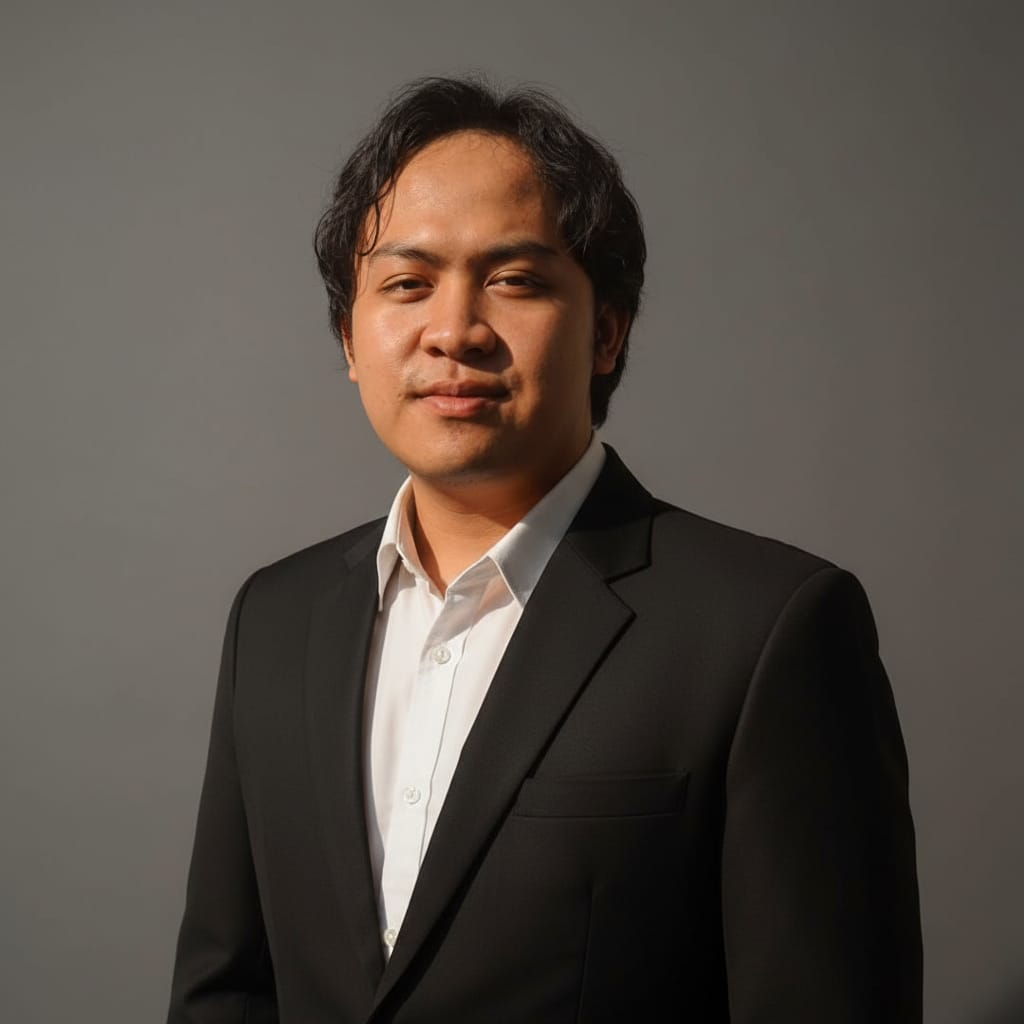
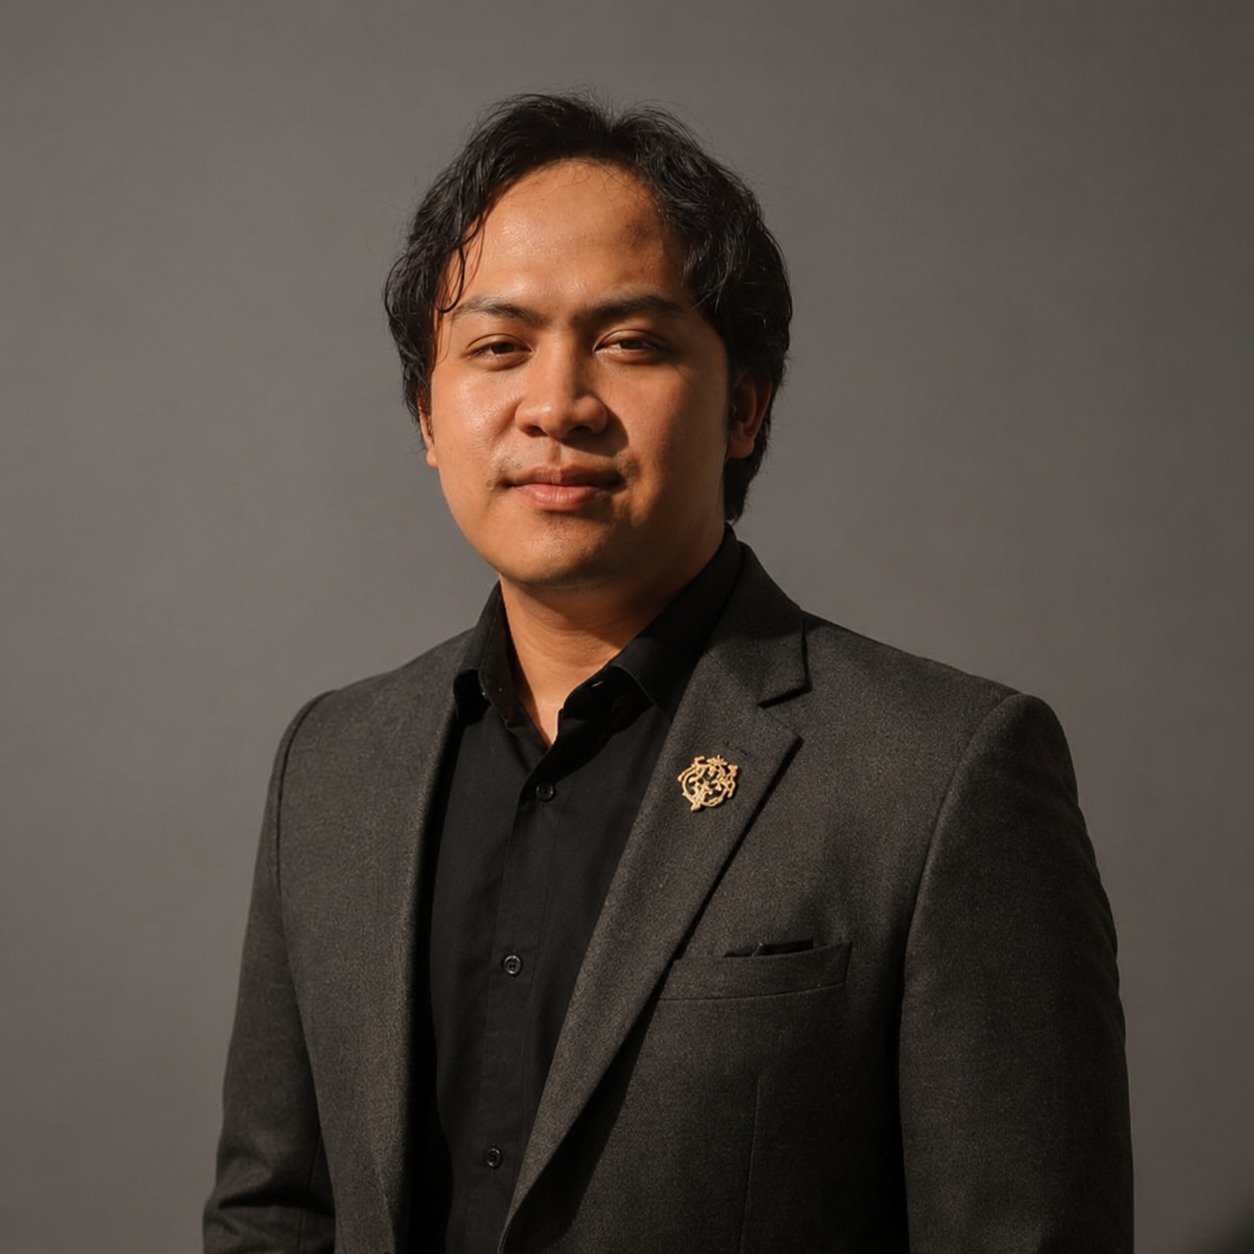
Perubahan yang banyak

diff --git a/index.html b/index.html
@@ -349,7 +349,7 @@
       box-shadow: 0 18px 50px rgba(0,0,0,0.55);
     }
     .couple-card img {
-      width: 100%; height: 340px;
+      width: 100%; height: 400px;
       object-fit: cover; object-position: center top;
       display: block;
       filter: brightness(0.48) blur(2px) saturate(0.75);
@@ -392,18 +392,43 @@
       font-size: 13px; line-height: 2.2; color: rgba(255,255,255,0.78);
       font-style: italic; margin-bottom: 24px;
     }
-    .gallery-grid { display: grid; grid-template-columns: 1fr 1fr; gap: 6px; }
+    .gallery-grid { display: flex; gap: 10px; overflow-x: auto; padding-bottom: 8px; scroll-snap-type: x mandatory; }
+    .gallery-grid::-webkit-scrollbar { display: none; }
+    .gallery-grid { -ms-overflow-style: none; scrollbar-width: none; }
     .gallery-grid img {
-      width: 100%; height: 190px; object-fit: cover;
-      border-radius: 3px;
+      width: 78%; height: 420px; object-fit: cover; 
+      flex-shrink: 0; 
+      border-radius: 4px;
+      filter: brightness(0.60) saturate(0.85);
+      scroll-snap-align: center;
       filter: brightness(0.60) saturate(0.85);
       transition: opacity 0.35s ease, filter 0.35s ease, transform 0.35s ease;
       cursor: pointer;
     }
     .gallery-grid img:hover {
       opacity: 0.90;
-      filter: brightness(0.72) saturate(1.1);
+      filter: brightness(0.78) saturate(1.1);
       transform: scale(1.02);
+    }
+
+    .gallery-wrapper { position: relative; }
+    .gallery-dots {
+      display: flex;
+      justify-content: center;
+      gap: 6px;
+      margin-top: -5px;
+    }
+    .gdot {
+      width: 6px; height: 6px;
+      border-radius: 50%;
+      background: rgba(255,255,255,0.25);
+      transition: all 0.3s ease;
+      cursor: pointer;
+    }
+    .gdot.active {
+      background: var(--brown-light);
+      width: 20px;               /* ← dot aktif jadi lonjong */
+      border-radius: 10px;
     }
 
     /* ── LOKASI ── */
@@ -784,7 +809,7 @@
   <!-- KIRI sticky -->
   <div class="left-panel" style="position:sticky;top:0;height:100vh">
     <img
-      src="assets/images/DalamKiri.jpeg"
+      src="assets/images/Dalamkirii.jpeg"
       onerror="this.style.display='none';this.parentElement.style.background='#1a0c05'"
       alt="Foto Kiri"
       style="object-position: 55% 23%; transform: scale(1.09);"
@@ -866,8 +891,9 @@
       </div>
 
       <div class="couple-card">
-        <img src="assets/images/CPWw.jpeg"
-          style="object-position: center 8%; transform: scale(1.0);" onerror="this.src='https://images.unsplash.com/photo-1494790108377-be9c29b29330?w=600&q=80'"
+        <img src="assets/images/CPW.jpeg"
+          style="object-position: center; transform: scale(1.3);"
+          onerror="this.src='https://images.unsplash.com/photo-1494790108377-be9c29b29330?w=600&q=80'"
           alt="Pengantin Wanita">
         <div class="couple-info">
           <div class="peran">Pengantin Wanita</div>
@@ -891,12 +917,31 @@
       <p class="story-text">
         Cinta tidak kenal waktu, kondisimu, berapa usiamu, dan siapa kamu. Cinta adalah pendeskripsian yang tidak ada habisnya. Cinta bukan apa-apa bagi yang tidak pernah merasakan, sebab ia hanya sebuah kata — mudah diucap, namun tidak mudah untuk dijelaskan. Cinta itu yang kami rasakan. Cinta itulah asal mula dari segalanya.
       </p>
-      <div class="gallery-grid">
-        <img src="assets/images/_MG_0645.jpg" style="object-position: center top;" transform: scale(1.3); onerror="this.src='https://images.unsplash.com/photo-1465495976277-4387d4b0b4c6?w=600&q=80'" alt="">
-        <img src="assets/images/_MG_0611.jpeg" style="object-position: center top;" transform: scale(0.4); onerror="this.src='https://images.unsplash.com/photo-1511285560929-80b456fea0bc?w=600&q=80'" alt="">
-        <img src="assets/images/_MG_0662.jpeg" style="object-position: center 50%;" transform: scale(0.5); onerror="this.src='https://images.unsplash.com/photo-1529634597503-139d3726fed5?w=600&q=80'" alt="">
-        <img src="assets/images/_MG_0648.jpg" style="object-position: center top;" transform: scale(1.3); onerror="this.src='https://images.unsplash.com/photo-1519741497674-611481863552?w=600&q=80'" alt="">
+      <div class="gallery-wrapper">
+        <div class="gallery-grid" id="galleryGrid">
+          <img src="assets/images/G4.jpeg" style="object-position: center top;" transform: scale(1.3); onerror="this.src='https://images.unsplash.com/photo-1465495976277-4387d4b0b4c6?w=600&q=80'" alt="">
+          <img src="assets/images/G6.jpg" style="object-position: center top;" transform: scale(0.4); onerror="this.src='https://images.unsplash.com/photo-1511285560929-80b456fea0bc?w=600&q=80'" alt="">
+          <img src="assets/images/G7.jpg" style="object-position: center 50%;" transform: scale(0.5); onerror="this.src='https://images.unsplash.com/photo-1529634597503-139d3726fed5?w=600&q=80'" alt="">
+          <img src="assets/images/G8.jpg" style="object-position: center top;" transform: scale(1.3); onerror="this.src='https://images.unsplash.com/photo-1519741497674-611481863552?w=600&q=80'" alt="">
+          <img src="assets/images/G9.jpg" style="object-position: center top;" transform: scale(1.3); onerror="this.src='https://images.unsplash.com/photo-1465495976277-4387d4b0b4c6?w=600&q=80'" alt="">
+          <img src="assets/images/G10.jpg" style="object-position: center top;" transform: scale(1.3); onerror="this.src='https://images.unsplash.com/photo-1465495976277-4387d4b0b4c6?w=600&q=80'" alt="">
+          <img src="assets/images/G11.jpg" style="object-position: center top;" transform: scale(1.3); onerror="this.src='https://images.unsplash.com/photo-1465495976277-4387d4b0b4c6?w=600&q=80'" alt="">
+          <img src="assets/images/G12.jpeg" style="object-position: center top;" transform: scale(1.3); onerror="this.src='https://images.unsplash.com/photo-1465495976277-4387d4b0b4c6?w=600&q=80'" alt="">
+          <img src="assets/images/G14.jpeg" style="object-position: center top;" transform: scale(1.3); onerror="this.src='https://images.unsplash.com/photo-1465495976277-4387d4b0b4c6?w=600&q=80'" alt="">
+          <img src="assets/images/G15.jpg" style="object-position: center top;" transform: scale(1.3); onerror="this.src='https://images.unsplash.com/photo-1465495976277-4387d4b0b4c6?w=600&q=80'" alt="">
+          <img src="assets/images/G16.jpeg" style="object-position: center top;" transform: scale(1.3); onerror="this.src='https://images.unsplash.com/photo-1465495976277-4387d4b0b4c6?w=600&q=80'" alt="">
+          <img src="assets/images/G17.jpeg" style="object-position: center top;" transform: scale(1.3); onerror="this.src='https://images.unsplash.com/photo-1465495976277-4387d4b0b4c6?w=600&q=80'" alt="">
+          <img src="assets/images/G18.jpeg" style="object-position: center top;" transform: scale(1.3); onerror="this.src='https://images.unsplash.com/photo-1465495976277-4387d4b0b4c6?w=600&q=80'" alt="">
+          <img src="assets/images/G19.jpeg" style="object-position: center top;" transform: scale(1.3); onerror="this.src='https://images.unsplash.com/photo-1465495976277-4387d4b0b4c6?w=600&q=80'" alt="">
+          <img src="assets/images/G20.jpeg" style="object-position: center top;" transform: scale(1.3); onerror="this.src='https://images.unsplash.com/photo-1465495976277-4387d4b0b4c6?w=600&q=80'" alt="">
+          <img src="assets/images/G21.jpeg" style="object-position: center top;" transform: scale(1.3); onerror="this.src='https://images.unsplash.com/photo-1465495976277-4387d4b0b4c6?w=600&q=80'" alt="">
+          <img src="assets/images/G22.jpeg" style="object-position: center top;" transform: scale(1.3); onerror="this.src='https://images.unsplash.com/photo-1465495976277-4387d4b0b4c6?w=600&q=80'" alt="">
+          <img src="assets/images/G23.jpeg" style="object-position: center top;" transform: scale(1.3); onerror="this.src='https://images.unsplash.com/photo-1465495976277-4387d4b0b4c6?w=600&q=80'" alt="">
+          <img src="assets/images/G24.jpeg" style="object-position: center top;" transform: scale(1.3); onerror="this.src='https://images.unsplash.com/photo-1465495976277-4387d4b0b4c6?w=600&q=80'" alt="">
+          <img src="assets/images/G25.jpeg" style="object-position: center top;" transform: scale(1.3); onerror="this.src='https://images.unsplash.com/photo-1465495976277-4387d4b0b4c6?w=600&q=80'" alt="">
+          <img src="assets/images/G26.jpeg" style="object-position: center top;" transform: scale(1.3); onerror="this.src='https://images.unsplash.com/photo-1465495976277-4387d4b0b4c6?w=600&q=80'" alt="">
       </div>
+      <div class="gallery-dots" id="galleryDots"></div>
     </div>
 
     <!-- LOKASI -->
@@ -929,8 +974,8 @@
       </div>
 
       <div class="event-block">
-        <div class="event-label">02 · Resepsi</div>
-        <div class="event-name">Resepsi Pernikahan</div>
+        <div class="event-label">02 Walimatul 'Ursy</div>
+        <div class="event-name">Walimatul 'Ursy Pernikahan</div>
         <div class="event-date-row">
           <div class="event-day">26</div>
           <div class="event-date-meta">
@@ -1049,6 +1094,12 @@
     document.getElementById('mainApp').classList.add('visible');
     document.getElementById('bgMusic').play().catch(() => {});
     document.getElementById('musicBtn').classList.add('playing');
+    isPlaying = true;
+     const snow = document.getElementById('snow');
+     snow.style.transition = 'opacity 1s ease';
+     snow.style.opacity = '0';
+     setTimeout(() => snow.style.display = 'none', 1000);
+
     // Musik mati saat tab ditinggal / browser ditutup
     document.addEventListener('visibilitychange', () => {
       if (document.hidden) {
@@ -1058,8 +1109,60 @@
         musicBtn.classList.remove('playing');
       }
     });
-
     isPlaying = true;
+    // Gallery dots
+      const grid = document.getElementById('galleryGrid');
+      const dotsContainer = document.getElementById('galleryDots');
+      const images = grid.querySelectorAll('img');
+      const gdots = document.querySelectorAll('.gdot');
+      // AUTO CREATE DOTS
+      images.forEach((_, i) => {
+        const dot = document.createElement('div');
+              dot.classList.add('gdot');
+
+              if (i === 0) dot.classList.add('active');
+
+              dot.addEventListener('click', () => {
+                const imgWidth = images[0].offsetWidth + 10;
+                grid.scrollTo({
+                  left: imgWidth * i,
+                  behavior: 'smooth'
+                });
+              });
+
+              dotsContainer.appendChild(dot);
+            });
+        const dots = document.querySelectorAll('.gdot');
+        // ACTIVE DOT SAAT SCROLL
+        grid.addEventListener('scroll', () => {
+        const imgWidth = images[0].offsetWidth + 10;
+        const index = Math.round(grid.scrollLeft / imgWidth);
+
+        dots.forEach((d, i) => {
+          d.classList.toggle('active', i === index);
+        });
+      });
+
+    grid.addEventListener('scroll', () => {
+      const img = grid.querySelector('img');
+      const gap = 10; // sesuai gap CSS
+      const imgWidth = img.offsetWidth + gap;
+
+      const index = Math.round(grid.scrollLeft / imgWidth);
+
+      dots.forEach((d, i) => {
+        d.classList.toggle('active', i === index);
+      });
+    });
+
+    // Klik dot untuk scroll ke foto
+    dots.forEach((dot, i) => {
+      dot.addEventListener('click', () => {
+        const imgWidth = grid.querySelector('img').offsetWidth + 10;
+        grid.scrollTo({ left: imgWidth * i, behavior: 'smooth' });
+      });
+    });
+
   });
 
   const music    = document.getElementById('bgMusic');